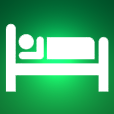
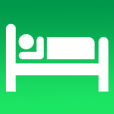
added mre jquery for iphone navigation and edited the appicon+name

diff --git a/WebServer/SleepAssistant/apps/journal/templates/account/login.html b/WebServer/SleepAssistant/apps/journal/templates/account/login.html
@@ -17,37 +17,6 @@ Login
             {% endif %}
         	
         	<fieldset>
-
-                <div id="firstModal" class="text-center reveal-modal">
-                  <br /><h2>Welcome to Sleep Assistant!</h2>
-                  <p>This is your personal assistant that will help you track you sleep thourgh the course of Sleep &amp; Dreams. You will be able to easily track your sleep data and have everything you need to learn about imporving your sleep hygene!</p>
-                  
-                  <a class="close-reveal-modal">&#215;</a>
-                  <div><a data-reveal-id="secondModal" class="button small">Next</a></div>
-                </div>
-                <div id="secondModal" class="text-center reveal-modal">
-                  <h2 class="text-center">Record</h2>
-                  <br /><h4>Lets you actively record your sleep data through your daily life</h4>
-                  <a class="close-reveal-modal">&#215;</a>
-                  <div><a data-reveal-id="thirdModal" class="button small">Next</a></div>
-                </div>
-                <div id="thirdModal" class="text-center reveal-modal">
-                  <h2 class="text-center">Journal</h2>
-                  <br /><h4>Check out your sleep data for the day and update any missing fields</h4>
-                  <a class="close-reveal-modal">&#215;</a>
-                  <div><a data-reveal-id="fourthModal" class="button small">Next</a></div>
-                </div>
-                <div id="fourthModal" class="text-center reveal-modal">
-                  <h2 class="text-center">Summary</h2>
-                  <br /><h4>Shows you a summary of your key sleep data for quick reference!</h4>
-                  <a class="close-reveal-modal">&#215;</a>
-                  <br /><br />
-                  <h4> You're now ready to start tracking your sleep with your brand new <em>Sleep Assistant!</em></h4>
-                  <div class="text-center"><a href="{% url 'account_login' %}" class="medium button ">Login</a></div>
-                </div>
-                </div>
-            </div>
-
             	<div class="small-12 columns">
             		<label for="id_email"><h5 class="subheader">E-mail:</h5></label>
 					{{ form.email }}
@@ -64,8 +33,7 @@ Login
         		</div>
         		<div class="small-12 columns"></div>
         		<div class="small-12 columns text-right">
-                    <div style="display:inline-block;" class="left"><a href="#" data-reveal-id="firstModal" class="secondary button">About&hellip;</a></div>
-        			<button type="submit" class="button">Login</button>
+                    <button type="submit" class="button">Login</button>
         			<a href="{% url 'account_signup' %}" class="secondary button">Signup</a>
         		</div>
            	</fieldset>

diff --git a/WebServer/SleepAssistant/templates/phone_base.html b/WebServer/SleepAssistant/templates/phone_base.html
@@ -13,12 +13,24 @@
 
 	<link rel="stylesheet" href="{% static 'foundation/css/normalize.css' %}" />
 	<!-- If you are using CSS version, add this -->
+	<meta name="apple-mobile-web-app-title" content="Sleep Assistant">
 	<meta name="apple-mobile-web-app-capable" content="yes">
  	<meta name="apple-mobile-web-app-status-bar-style" content="black">
 	<meta name="viewport" content="width=device-width, initial-scale=1">
 	<link rel="apple-touch-icon" href="{% static 'images/appicon.png' %}" />
 	<link rel="stylesheet" href="{% static 'foundation/css/foundation.min.css' %}" />
 	<script src="{% static 'foundation/js/custom.modernizr.js' %}"></script>
+
+	<script src="http://code.jquery.com/jquery-1.4.2.min.js"></script>
+    <script type="text/javascript">
+        $(function() {
+          $('a').click(function() {
+            document.location = $(this).attr('href');
+            return false;
+          });
+        });
+    </script>
+
 </head>
 
 <body>
